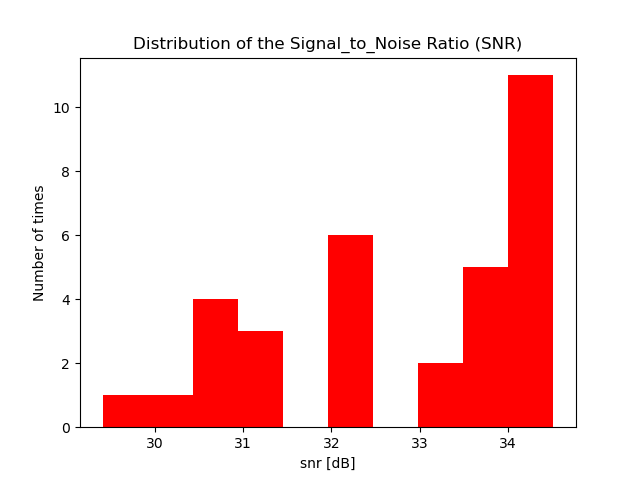
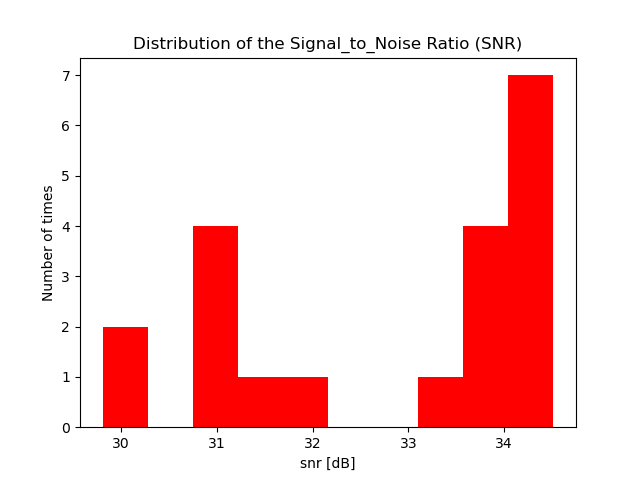
Correction in "Network" -> called "route_space_update" instead "route_space" in method "Stream" The updated version of the SNR distribution (for the two json matrix) are now available.

diff --git a/core/Network.py b/core/Network.py
@@ -232,7 +232,7 @@ class Network:
                         data["snr"].append(snr)
         self.probe = pd.DataFrame(data)
         # pd.set_option('display.max_rows', None)
-        print(self.probe)
+        # print(self.probe)
 
     # Creates PANDAS Dataframe that describe the availability for each channel -----------------------------------------
     def route_space_dataframe(self):
@@ -255,7 +255,7 @@ class Network:
                             database_dict["CH_"+str(channel)].append(0)     # '0' means occupied
         self.route_space = pd.DataFrame(database_dict)
         # pd.set_option('display.max_rows', None)
-        print(self.route_space)
+        # print(self.route_space)
 
     # ROUTE SPACE ------------------------------------------------------------------------------------------------------
     def route_space_update(self):
@@ -278,7 +278,7 @@ class Network:
             for z in range(N_channel):
                 self.route_space.loc[i, 'CH_'+str(z)] = tmp[z]
         # pd.set_option('display.max_rows', None)
-        print(self.route_space)
+        # print(self.route_space)
 
     # FIND BEST SNR: Given two nodes, find the path with the best SNR value---------------------------------------------
     def find_best_snr(self, start_node, stop_node, channel):
@@ -349,16 +349,18 @@ class Network:
                 connection.latency = 0
                 connection.snr = 0
             else:
-                path_arrows = path
+                # path_arrows = path
                 path = path.split("->")
                 signal_lightpath = Lightpath(signal_power, list(path), channel)
                 final_signal = self.propagate(signal_lightpath)
 
                 # Update of route_space
-                self._route_space.loc[self._route_space.path == path_arrows, 'CH_'+str(channel)] = 1
+                # self._route_space.loc[self._route_space.path == path_arrows, 'CH_'+str(channel)] = 1
                 # With 'loc' I decide to show only the column "path", then set the channel that is crossed available '1'
 
                 connection.signal_power = final_signal.signal_power
                 connection.latency = final_signal.latency
                 connection.snr = 10 * np.log10(final_signal.signal_power / final_signal.noise_power)
+                self.route_space_update()
+
 
